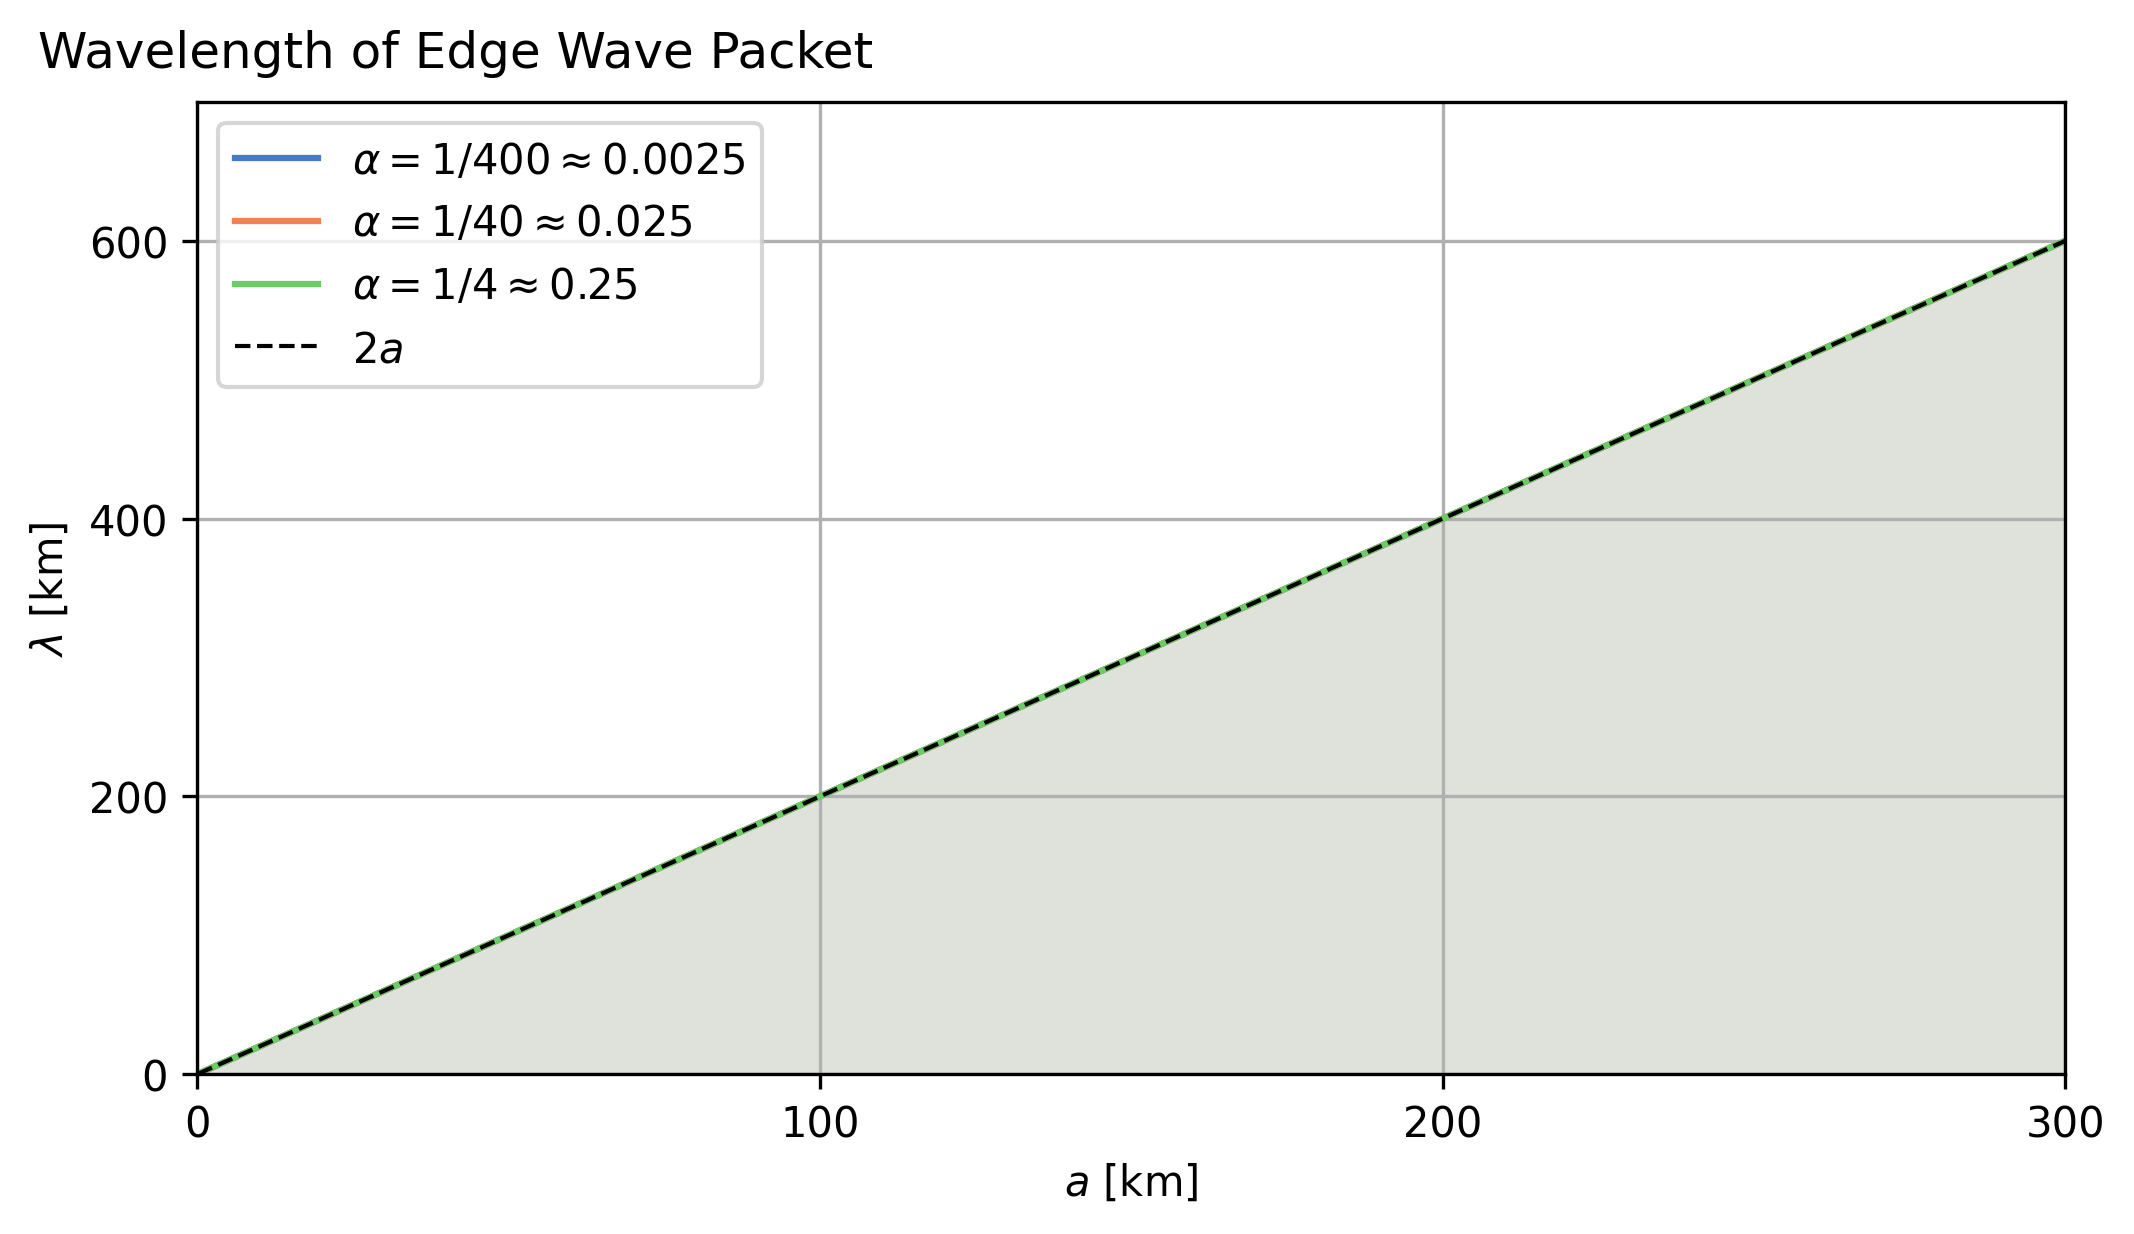
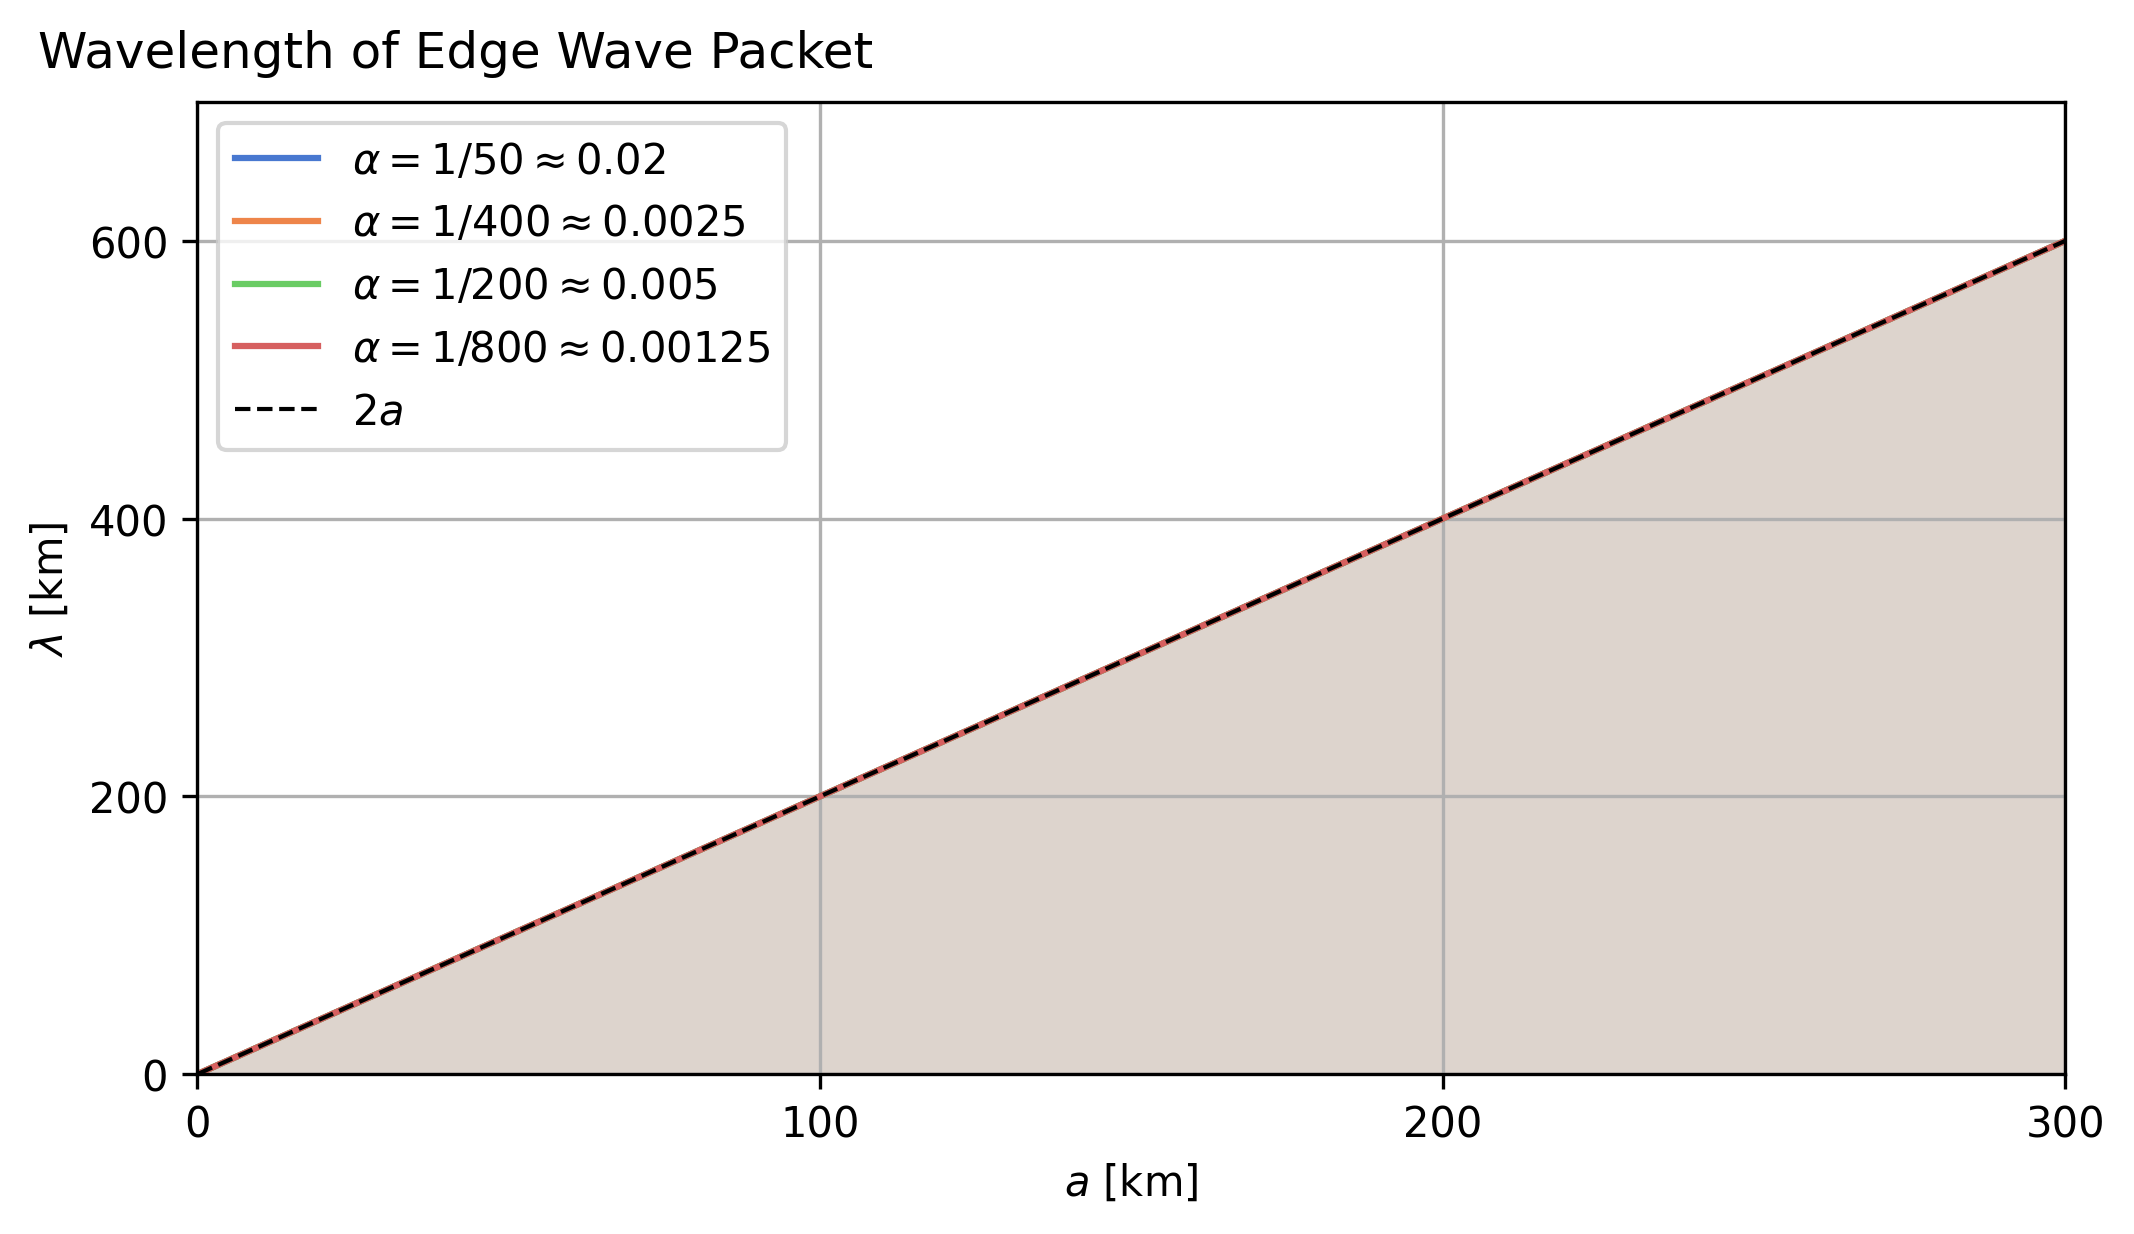
update figures

diff --git a/theory/theory_part1.py b/theory/theory_part1.py
@@ -178,7 +178,7 @@ if __name__ == "__main__":
 
     # Parameters
     a = np.logspace(2, 6)
-    alpha = np.array([1 / 400, 1 / 40, 1 / 4])
+    alpha = np.array([1 / 50, 1 / 400, 1 / 200, 1 / 800])
 
     # Figures
     theory_figure_speed_vs_size(a, alpha)
